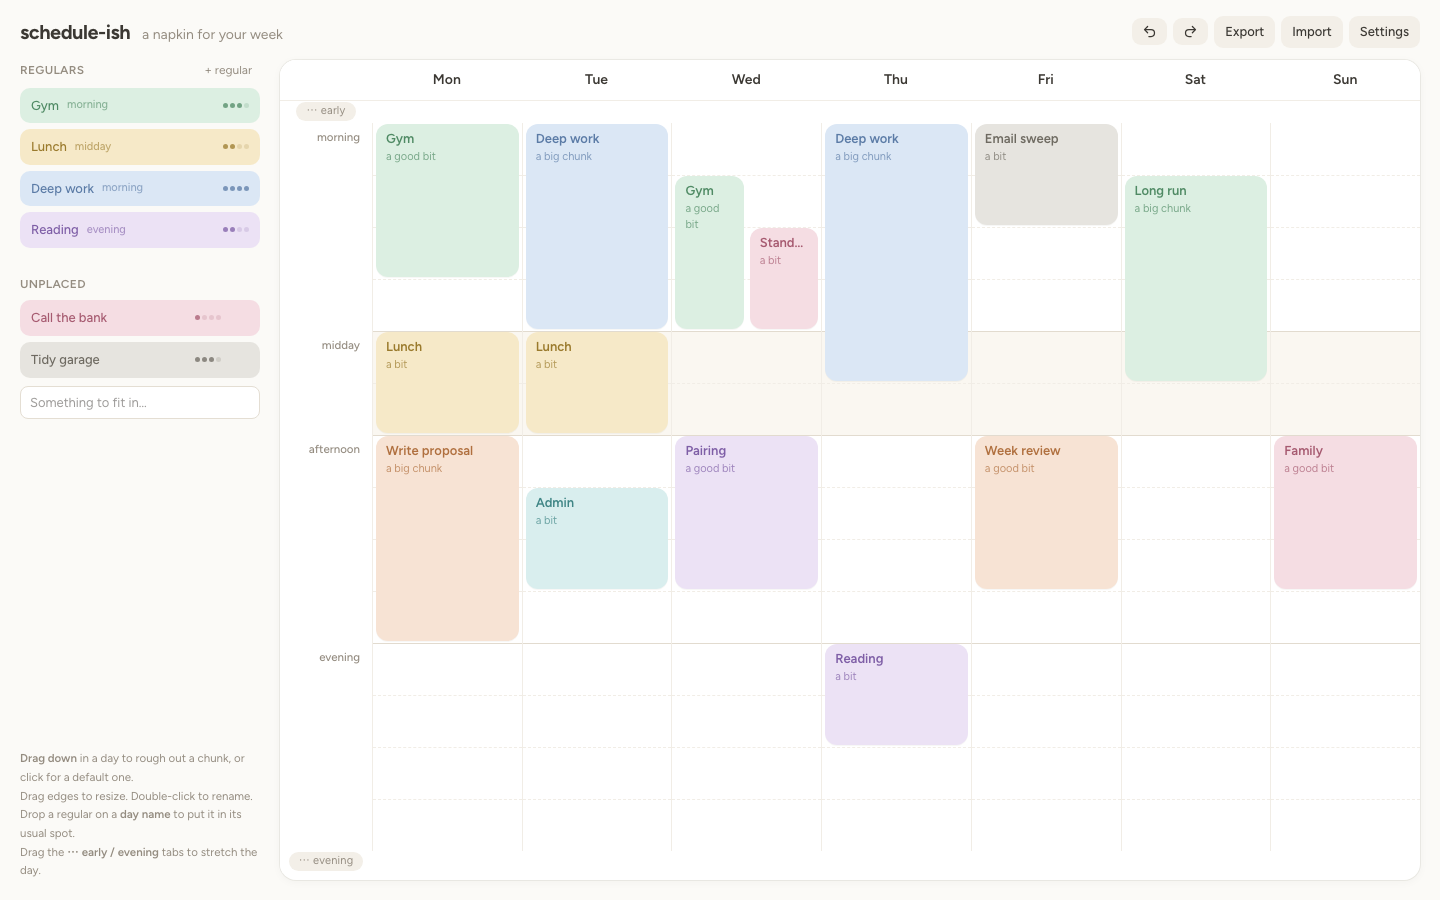
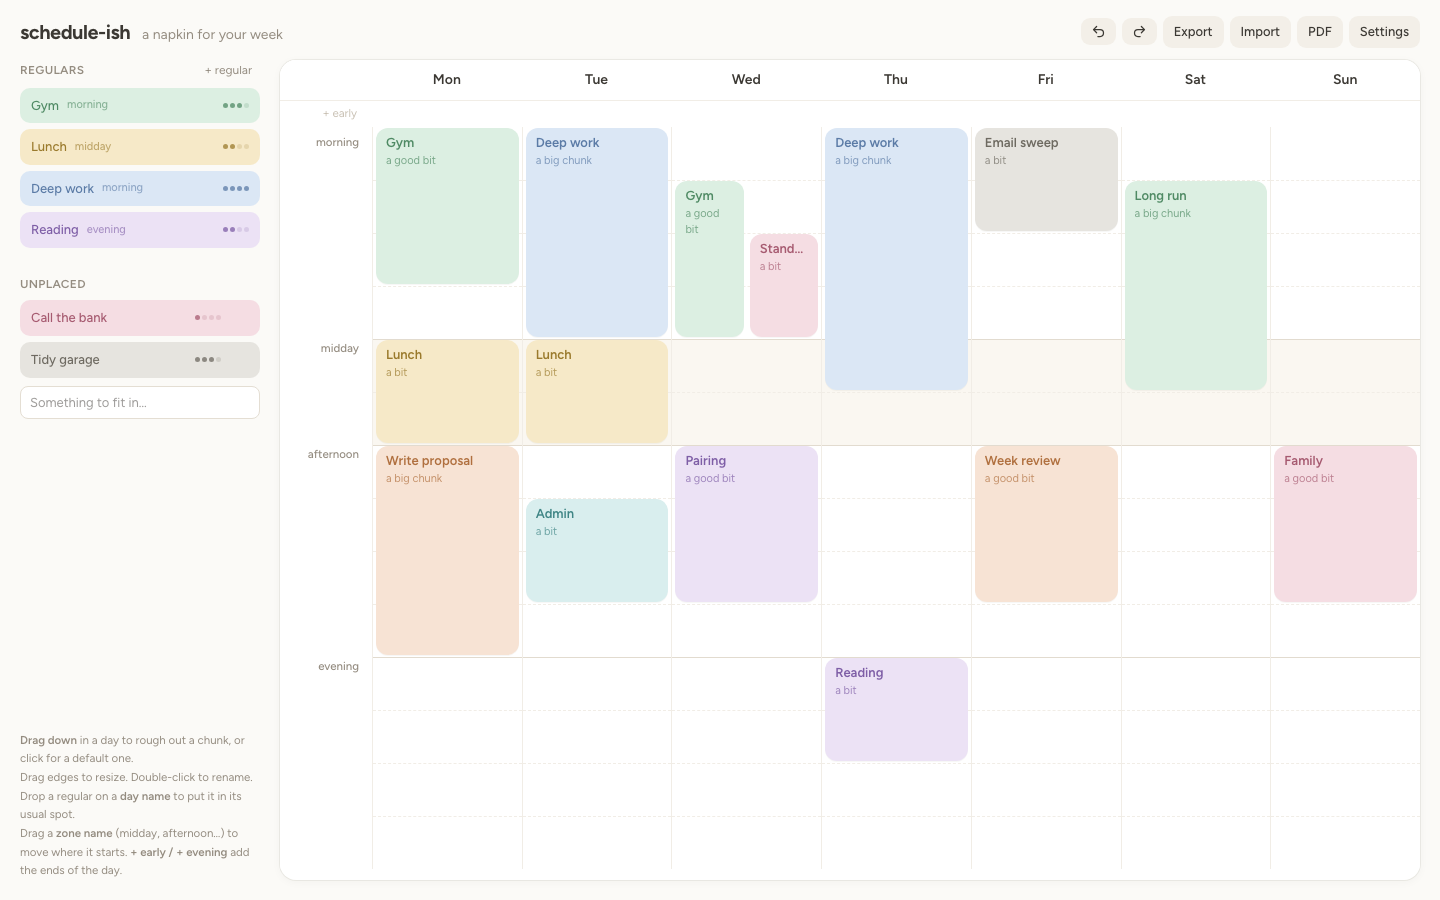
schedule-ish: document zone breaks, toggles and PDF export
README explains moving a break, the +/- toggles and the PDF button; the
screenshot shows the new header and gutter. The design doc gets a round-2
section with the decisions and the reasoning for the print approach.

diff --git a/schedule-ish/README.md b/schedule-ish/README.md
@@ -28,9 +28,15 @@ CDNs, so it needs a network connection on first load.
 
 **The day** has no hours. It's split into soft zones: *morning*, *midday*
 (tinted, for lunch) and *afternoon*. Faint lines mark steps, and blocks snap
-to those steps. Two optional zones, *early* and *evening*, are tucked away.
-Drag the **⋯ early** / **⋯ evening** tabs down to reveal one, or up to tuck
-it away again. A zone won't hide while blocks are still in it.
+to those steps.
+- **Move a break:** hover a zone name (*midday*, *afternoon*, …) until the
+  cursor shows ↕, then drag. That moves where the zone starts, trading
+  steps only with the zone above it. Every zone keeps at least one step, and
+  the day's overall length stays the same. Blocks don't move; only the
+  labels and lines do.
+- **Early and evening** are optional. Click **+ early** or **+ evening** to
+  add one. Once it's open, hover its name and click **−** to tuck it away
+  again. A zone won't hide while blocks are still in it.
 
 **Blocks**
 - **Drag down** in a day to rough out a chunk, or **click** for a default one.
@@ -56,6 +62,10 @@ somewhere. Type one in and press Enter. Dragging it onto the week *moves* it
 there. Dragging a block from the week back onto this list takes it off the
 week.
 
+**PDF** opens the print dialog with just the week on one landscape page.
+The sidebar and buttons are hidden and the colours are kept. Choose "Save
+as PDF" as the destination, or print it.
+
 **Settings** set the first day of the week, which days to show, and the
 optional zones. You can also clear all blocks there. **Undo/redo**:
 ⌘Z / ⇧⌘Z (Ctrl on other platforms), or the header buttons.
@@ -73,9 +83,9 @@ replaces the current plan (undoable).
 
 | File | What |
 |---|---|
-| `index.html` | Page shell, Tailwind, and a small `<style>` block for the grid and blocks |
+| `index.html` | Page shell, Tailwind, and a small `<style>` block for the grid, blocks and print layout |
 | `model.js` | Pure logic: zones and steps, snapping, overlap layout, gap finding, loading/validation. No DOM. |
-| `app.js` | Rendering, pointer-event drag/resize, sidebar, popovers, persistence, undo |
+| `app.js` | Rendering, pointer-event drag/resize (blocks and zone breaks), sidebar, popovers, persistence, undo, print |
 | `test/model.test.js` | Unit tests for `model.js` |
 
 Run the tests with Node 18 or later (no dependencies):

diff --git a/docs/2026-09-24-1450_DESIGN_schedule-ish.md b/docs/2026-09-24-1450_DESIGN_schedule-ish.md
@@ -110,3 +110,23 @@ tools feel:
   isn't empty. Delete them freely.
 - Day headers and the zone gutter stay pinned when the board scrolls, which
   matters on tablet widths.
+
+## Round 2 (2026-09-24): zone breaks, toggles, PDF
+
+- **Movable breaks.** Zone sizes are now part of the plan (`state.zones`,
+  steps per zone, always summing to the fixed day length). Dragging a zone
+  name moves the break at the top of that zone, trading steps only with the
+  zone above it (`moveBoundary`), with a minimum of one step each. So
+  dragging *midday* down lengthens morning and shortens midday, and
+  afternoon stays put. The first visible zone has no break above it, so it
+  isn't draggable.
+- **Early/evening are click toggles.** The drag tabs were confusing: one
+  control did two jobs, and a second "evening" appeared once the zone was
+  open. Now a hidden zone is a quiet "+ evening" row, and an open one has a
+  hover "−" beside its name. Tucking away is still refused while blocks
+  sit in the zone.
+- **PDF via print.** A print stylesheet plus `window.print()`, with no
+  library. `beforeprint` re-renders the day at a fixed height so the week
+  fits one landscape page on both Letter and A4 (checked with headless
+  Chrome's print-to-PDF). jsPDF and html2canvas were the alternatives, but
+  both mean more code or blurrier text for little gain.
